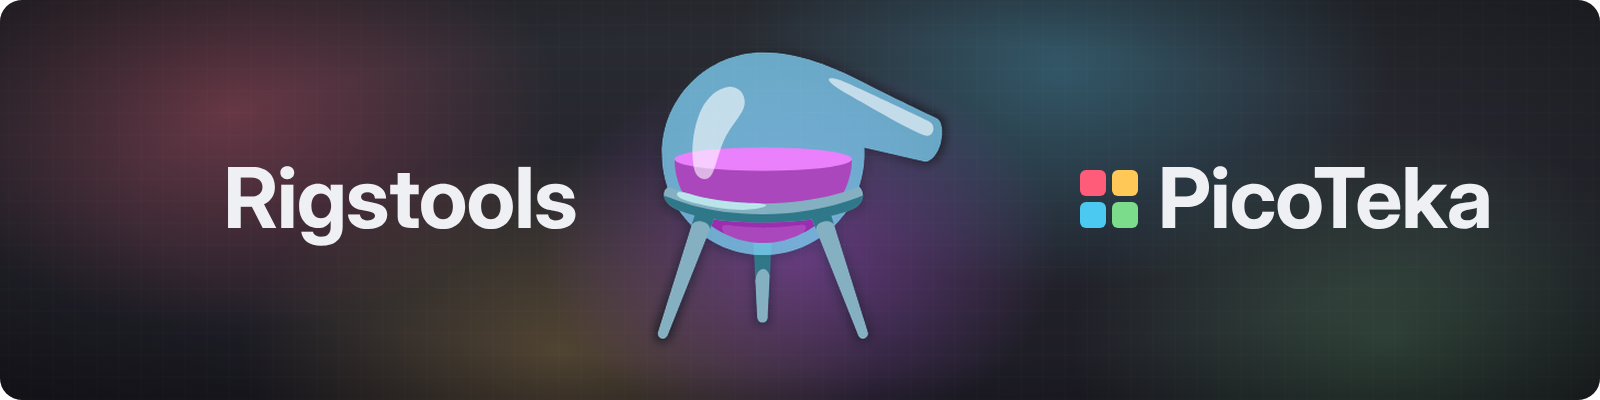
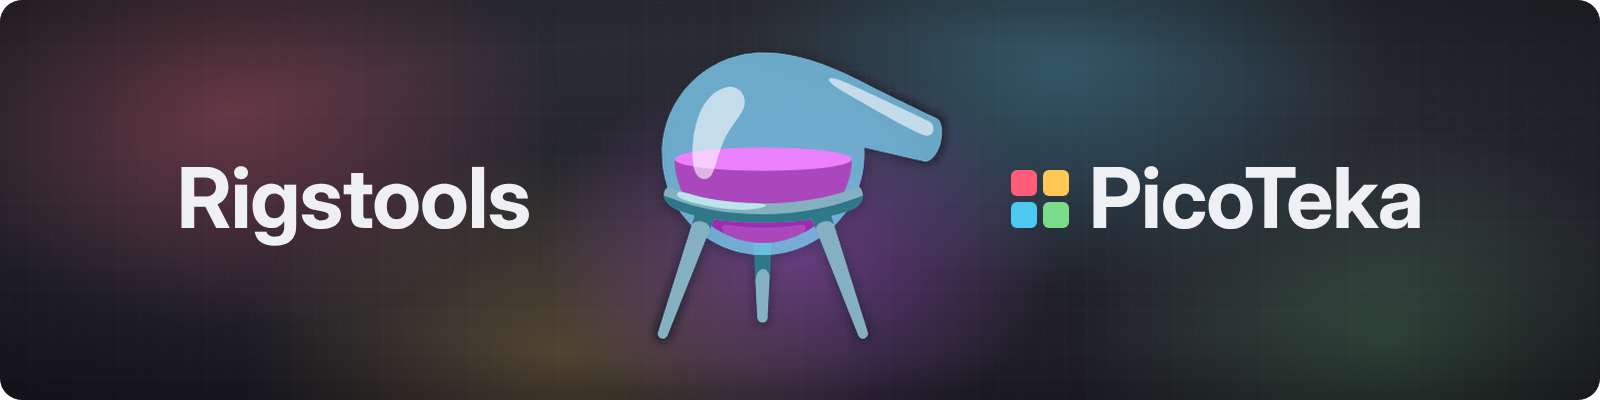
Rigstools 2.0.1: small visual improvements

Changed region(s): [[0.625, 0.42, 0.9375, 0.57], [0.0938, 0.42, 0.375, 0.63]]

diff --git a/gallery_ui/gallery.js b/gallery_ui/gallery.js
@@ -21,7 +21,9 @@ const STR = {
     sentWf: "Sent to ComfyUI", no_comfy: "ComfyUI is not open in any browser tab", no_workflow: "The file has no workflow",
     network_files: "Deleting and moving files from another computer is off (Settings → Rigstools → PicoTeka)",
     no_send2trash: "The send2trash package is missing: pip install send2trash", not_root: "Not a gallery folder",
-    delTitle: "Delete pictures", delText: "Move {n} {pics} to the Windows recycle bin? Tags and rating come back if a file is restored within 30 days.",
+    delPermTitle: "Delete permanently?", delPermText: "You are about to permanently delete {n} {pics}. The files are deleted from the disk, bypassing the recycle bin, and cannot be restored; their tags and rating are deleted too. Are you sure?",
+    delPerm: "Delete permanently", deletedPerm: "Deleted permanently: {n}", cancel: "Cancel",
+    delTitle: "Delete pictures", delText: "Move {n} {pics} to the system recycle bin? Tags and rating come back if a file is restored within 30 days.",
     deleted: "Moved to the recycle bin: {n}", moveTitle: "Move pictures", moveText: "Move {n} {pics} to:", newFolder: "new subfolder (optional)",
     moved: "Moved: {n}", rateTitle: "Rating of {n} {pics}", tagsTitle: "Tags of {n} {pics}", tagsAdd: "Add", tagsRemove: "Remove from the pictures",
     manage: "manage", tagsManage: "Tags", rename: "Rename", renamePh: "new name", tagDelete: "Delete the tag",
@@ -48,7 +50,9 @@ const STR = {
     sentWf: "Отправлено в ComfyUI", no_comfy: "ComfyUI не открыт ни в одной вкладке браузера", no_workflow: "В файле нет workflow",
     network_files: "Удаление и перемещение файлов с другого компьютера выключено (Настройки → Rigstools → PicoTeka)",
     no_send2trash: "Нет пакета send2trash: pip install send2trash", not_root: "Это не папка галереи",
-    delTitle: "Удаление картинок", delText: "Переместить {n} {pics} в корзину Windows? Теги и рейтинг вернутся, если файл восстановить в течение 30 дней.",
+    delPermTitle: "Удалить безвозвратно?", delPermText: "Вы собираетесь безвозвратно удалить {n} {pics}. Файлы будут удалены с диска, минуя корзину, — восстановить их будет нельзя; теги и рейтинг тоже удаляются. Вы уверены?",
+    delPerm: "Удалить безвозвратно", deletedPerm: "Удалено безвозвратно: {n}", cancel: "Отмена",
+    delTitle: "Удаление картинок", delText: "Переместить {n} {pics} в корзину ОС? Теги и рейтинг вернутся, если файл восстановить в течение 30 дней.",
     deleted: "Перемещено в корзину: {n}", moveTitle: "Перемещение картинок", moveText: "Переместить {n} {pics} в:", newFolder: "новая подпапка (необязательно)",
     moved: "Перемещено: {n}", rateTitle: "Рейтинг {n} {pics}", tagsTitle: "Теги {n} {pics}", tagsAdd: "Добавить", tagsRemove: "Убрать с картинок",
     manage: "управлять", tagsManage: "Теги", rename: "Переименовать", renamePh: "новое имя", tagDelete: "Удалить тег",
@@ -774,7 +778,7 @@ function infoHtml(it) {
       <button class="btn pri" data-act="params" ${it.has_params ? "" : "disabled"}>${icl("send", t("toWfParams"))}</button>
       <button class="btn" data-act="workflow" ${it.has_workflow ? "" : "disabled"}>${icl("workflow", t("openWf"))}</button>
       <button class="btn" data-act="copy" ${it.has_params ? "" : "disabled"}>${icl("copy", t("copyParams"))}</button>
-      <button class="btn" data-act="meta">${icl("info", t("fileData"))}</button>
+      <button class="btn meta" data-act="meta">${icl("info", t("fileData"))}</button>
       <button class="btn dang" data-act="delete">${icl("trash", t("del"))}</button></div>`;
 }
 // rating stars as the icon of the Rating button: filled when given, an outline when not (the thumbnails keep font stars)
@@ -803,7 +807,7 @@ function wireInfo(box, it) {
   };
   box.querySelector('[data-act="meta"]').onclick = () => openMeta(it);
   for (const kind of ["image", "params", "workflow"]) box.querySelector(`[data-act="${kind}"]`).onclick = () => sendToComfy(it.id, kind);
-  box.querySelector('[data-act="delete"]').onclick = () => deleteDialog([it.id]);
+  box.querySelector('[data-act="delete"]').onclick = (e) => deleteDialog([it.id], e.shiftKey);
 }
 
 /** After a change to pictures: their cells, the card and the open viewer show it. */
@@ -878,20 +882,27 @@ async function tagInput(line, done) {
   };
 }
 
-function deleteDialog(ids) {
+/** Delete: to the recycle bin (Delete), or permanently, past the bin (Shift + Delete, Shift + click on a Delete
+    button) — then the dialog is red, warns that nothing can be restored and has Cancel in focus, so a stray Enter
+    deletes nothing. */
+function deleteDialog(ids, permanent = false) {
   if (!ids.length) return;
-  const body = el("div", "dlg-b", `<div>${esc(t("delText", { n: num(ids.length), pics: picsWord(ids.length) }))}</div>`);
-  const go = el("button", "btn dang", icl("trash", t("del")));
-  const line = el("div", "addline"); line.style.justifyContent = "flex-end"; line.append(go);
+  const n = { n: num(ids.length), pics: picsWord(ids.length) };
+  const body = el("div", "dlg-b", `<div>${esc(t(permanent ? "delPermText" : "delText", n))}</div>`);
+  const cancel = el("button", "btn", t("cancel"));
+  const go = el("button", "btn dang", icl("trash", t(permanent ? "delPerm" : "del")));
+  const line = el("div", "addline"); line.style.justifyContent = "flex-end"; line.append(cancel, go);
   body.append(line);
-  const close = dialog(t("delTitle"), body);
-  go.focus();
+  const close = dialog(t(permanent ? "delPermTitle" : "delTitle"), body);
+  if (permanent) body.closest(".dlg").querySelector(".dlg-h b").classList.add("dang");
+  cancel.onclick = close;
+  (permanent ? cancel : go).focus();
   go.onclick = async () => {
     close();
     let r;
-    try { r = await post("delete", { ids }); } catch (e) { return fail(e); }
+    try { r = await post("delete", { ids, permanent }); } catch (e) { return fail(e); }
     removeItems(r.done);
-    toast(t("deleted", { n: num(r.done.length) }));
+    toast(t(permanent ? "deletedPerm" : "deleted", { n: num(r.done.length) }));
     if (r.errors.length) toast(t("errors", { v: r.errors.map((x) => x[0]).join(", ") }), true);
   };
 }
@@ -1124,7 +1135,7 @@ function metaBody(m) {
   const pre = el("pre", "raw");
   const parts = [["parameters", m.parameters || null], ["prompt", m.prompt], ["workflow", m.workflow]];
   parts.forEach(([name, v], i) => {
-    const b = el("span", i ? "" : "on", name);
+    const b = el("span", i ? "" : "on", name); b.dataset.w = name;
     b.onclick = () => { for (const x of tabs.children) x.classList.toggle("on", x === b); pre.textContent = pretty(v); };
     tabs.append(b);
   });
@@ -1242,8 +1253,8 @@ function step(d) {
 function initViewer() {
   $("v-close").innerHTML = icl("close", t("close"));
   $("v-title").textContent = t("viewTitle");
-  $("v-fit").textContent = t("fit");
-  $("v-info").innerHTML = icl("info", t("info"));
+  $("v-fit").textContent = $("v-fit").dataset.w = t("fit");
+  $("v-info").innerHTML = icl("info", t("info")); $("v-info").querySelector("span").dataset.w = t("info");
   $("v-keep-l").textContent = t("keepZoom");
   const keep = $("v-keep");
   keep.checked = V.keep;
@@ -1294,7 +1305,7 @@ function openCompare() {
   [C.a, C.b] = ids.map((id) => S.items.find((x) => x.id === id));
   $("compare").hidden = false;
   $("c-title").textContent = t("cmpTitle");
-  $("c-side").textContent = t("side"); $("c-slider").textContent = t("slider");
+  $("c-side").textContent = $("c-side").dataset.w = t("side"); $("c-slider").textContent = $("c-slider").dataset.w = t("slider");
   setHint("c-hint", t("cmpHint")); requestAnimationFrame(() => foldHint($("c-hint")));
   $("c-hide-l").textContent = t("hideSame");
   $("c-hide").checked = C.hide;
@@ -1391,7 +1402,7 @@ function cTable() {
 
 function initCompare() {
   $("c-close").innerHTML = icl("close", t("close"));
-  $("c-fit").textContent = t("fit");
+  $("c-fit").textContent = $("c-fit").dataset.w = t("fit");
   $("c-fit").onclick = () => { if (C.w) cFit(); };
   const cz = $("c-zoomctl");
   cz.innerHTML = zoomHtml();
@@ -1457,7 +1468,7 @@ document.addEventListener("keydown", (e) => {
   }
   const ids0 = V.open ? [S.items[V.i]?.id].filter((x) => x != null) : targets();
   if (/^[0-5]$/.test(e.key) && !e.ctrlKey && !e.metaKey) { if (ids0.length) setRating(ids0, +e.key); e.preventDefault(); return; }
-  if (e.key === "Delete") { deleteDialog(ids0); e.preventDefault(); return; }
+  if (e.key === "Delete") { deleteDialog(ids0, e.shiftKey); e.preventDefault(); return; }
   if (e.code === "KeyT") { tagsDialog(ids0); e.preventDefault(); return; }
   if (e.code === "KeyM" && !V.open) { moveDialog(ids0); e.preventDefault(); return; }
   if (e.code === "KeyC" && !V.open && !e.ctrlKey && !e.metaKey) { openCompare(); e.preventDefault(); return; }
@@ -1661,14 +1672,14 @@ async function init() {
   $("main").addEventListener("click", (e) => { if (!e.target.closest(".cell, .fresh")) unpick(); });
   $("main").addEventListener("scroll", () => { if (S.unseen.size || S.held.size) requestAnimationFrame(onGridScroll); }, { passive: true });
   for (const [id, key, fn] of [["b-rate", "rate", () => rateDialog(targets())], ["b-tags", "tags", () => tagsDialog(targets())],
-    ["b-move", "move", () => moveDialog(targets())], ["b-del", "del", () => deleteDialog(targets())], ["b-compare", "compare", openCompare]]) {
+    ["b-move", "move", () => moveDialog(targets())], ["b-del", "del", (e) => deleteDialog(targets(), e?.shiftKey)], ["b-compare", "compare", openCompare]]) {
     $(id).innerHTML = icl({ rate: "star", tags: "hash", move: "move", del: "trash", compare: "swap" }[key], t(key));
     $(id).onclick = fn;
   }
   $("b-compare").disabled = true;
   $("v-rate").onclick = (e) => { const it = S.items[V.i]; const r = starOf(e); if (it && r) setRating([it.id], r === it.rating ? 0 : r); };
   $("v-tags").innerHTML = icl("hash", t("tags")); $("v-tags").onclick = () => tagsDialog([S.items[V.i]?.id].filter((x) => x != null));
-  $("v-del").innerHTML = ic("trash"); $("v-del").title = t("del"); $("v-del").onclick = () => deleteDialog([S.items[V.i]?.id].filter((x) => x != null));
+  $("v-del").innerHTML = ic("trash"); $("v-del").title = t("del"); $("v-del").onclick = (e) => deleteDialog([S.items[V.i]?.id].filter((x) => x != null), e.shiftKey);
   // with names: an arrow; icons only (narrow window): a picture and sliders, so the two buttons differ
   const alt = (name) => ic(name).replace('class="ic"', 'class="ic alt"');
   $("v-img-wf").innerHTML = icl("send", t("toWfImage")) + alt("image"); $("v-img-wf").onclick = () => sendToComfy(S.items[V.i].id, "image");

diff --git a/gallery_ui/gallery.css b/gallery_ui/gallery.css
@@ -250,6 +250,10 @@ canvas.px { position: absolute; inset: 0; width: 100%; height: 100%; z-index: 0;
   border: 1px solid var(--outline); border-radius: var(--radius); padding: 8px 10px } .root .muted { word-break: break-all }
 .addline { display: flex; gap: 6px } .addline .inp { flex: 1 } .err { color: var(--danger) }
 .seg { display: inline-flex; border: 1px solid var(--outline); border-radius: var(--radius); overflow: hidden; align-self: flex-start }
+/* buttons that turn bold when on (Fit, the mode switches) keep their width: an invisible bold copy of the text holds it */
+.btn[data-w], .seg span[data-w] { flex-direction: column; justify-content: center; align-items: center; gap: 0 }
+.seg span[data-w], .btn > span[data-w] { display: inline-flex; flex-direction: column; align-items: center }
+.btn[data-w]::after, .seg span[data-w]::after, .btn > span[data-w]::after { content: attr(data-w); height: 0; visibility: hidden; overflow: hidden; font-weight: 650 }
 .seg span { padding: 0 14px; line-height: 28px; cursor: pointer } .seg span + span { border-left: 1px solid var(--outline) } .seg .on { background: var(--light); color: var(--bg); font-weight: 600 }
 .raw { margin: 0; background: var(--field); border: 1px solid var(--outline); border-radius: var(--radius); padding: 10px; white-space: pre-wrap;
   word-break: break-word; font: 11.5px/1.45 ui-monospace, Consolas, monospace; max-height: 60vh; overflow: auto }
@@ -281,6 +285,11 @@ canvas.px { position: absolute; inset: 0; width: 100%; height: 100%; z-index: 0;
 .addtag { color: var(--muted); border-style: dashed } .taginp { height: 24px; width: 160px }
 #v-rate { padding: 0 8px; cursor: default } #v-rate .stars { font-size: 14px }
 .acts { grid-template-columns: 1fr 1fr } .btn.dang { color: var(--danger) }
+/* every Delete button: red text, icon and border; the title of the permanent-delete dialog is red too */
+.btn.dang { border-color: var(--danger) } .btn.dang:hover { background: rgba(255, 92, 122, .10) }
+.dlg-h b.dang { color: var(--danger) }
+/* File data on the card: a green (i), the green of the mark */
+.btn.meta .ic { color: var(--c4) }
 .toast { position: fixed; left: 50%; bottom: 40px; transform: translateX(-50%); background: #151922; border: 1px solid var(--accent-line);
   color: #fff; border-radius: 8px; padding: 8px 14px; z-index: 100; max-width: 70vw; box-shadow: 0 8px 30px rgba(0, 0, 0, .5) }
 .toast.bad { background: #22141a; border-color: rgba(255, 92, 122, .55) }

diff --git a/core/gallery.py b/core/gallery.py
@@ -512,9 +512,12 @@ def delete_tag(index, name):
         c.commit()
 
 
-def delete_files(index, ids):
-    """Moves the files to the recycle bin; their tags and rating are kept for TRASH_DAYS. -> (deleted, errors)."""
-    from send2trash import send2trash
+def delete_files(index, ids, permanent=False):
+    """Moves the files to the recycle bin; their tags and rating are kept for TRASH_DAYS. -> (deleted, errors).
+    permanent (Shift + Delete in the gallery): the files are deleted from the disk, past the bin, and their tags and
+    rating go with them."""
+    if not permanent:
+        from send2trash import send2trash
     c = index.db()
     done, errors = [], []
     for i in ids:
@@ -523,13 +526,16 @@ def delete_files(index, ids):
             continue
         try:
             if os.path.exists(r["real_path"]):
-                send2trash(r["real_path"])
+                if permanent:
+                    os.remove(r["real_path"])
+                else:
+                    send2trash(r["real_path"])
         except Exception as e:
             errors.append([r["name"], str(e)])
             continue
         tags = [t[0] for t in c.execute("SELECT name FROM tags JOIN image_tags ON tag_id = id WHERE image_id = ?", (i,))]
         with index.lock:
-            if tags or r["rating"]:
+            if (tags or r["rating"]) and not permanent:
                 c.execute("INSERT OR REPLACE INTO trash VALUES (?, ?, ?, ?)",
                           (r["path"], r["rating"], json.dumps(tags, ensure_ascii=False), time.time()))
             c.execute("DELETE FROM images WHERE id = ?", (i,))

diff --git a/nodes/gallery.py b/nodes/gallery.py
@@ -275,9 +275,9 @@ def register_routes():
     async def delete(request):
         if not _files_allowed(request):
             return web.json_response({"error": "network_files"}, status=403)
-        _, ids = await body_ids(request)
+        body, ids = await body_ids(request)
         try:
-            done, errors = await run(G.delete_files, G.get()[0], ids)
+            done, errors = await run(G.delete_files, G.get()[0], ids, bool(body.get("permanent")))
         except ImportError:
             return web.json_response({"error": "no_send2trash"}, status=500)
         return web.json_response({"done": done, "errors": errors})

diff --git a/__init__.py b/__init__.py
@@ -2,7 +2,7 @@
 @author: scrudgmcdack
 @title: Rigstools
 @nickname: rigstools
-@version: 2.0.0
+@version: 2.0.1
 @project: https://github.com/ScrudgMcDack/ComfyUI-Rigstools
 @description: Load images with their generation data (PNG, JPEG, WebP) and read it back: workflow, prompt and A1111-style parameters
               (seed, steps, CFG, size, prompts, model, LoRA stack); save images with the parameters collected from the graph;

diff --git a/core/version.py b/core/version.py
@@ -1,1 +1,1 @@
-version = "2.0.0"
+version = "2.0.1"

diff --git a/CHANGELOG.ru.md b/CHANGELOG.ru.md
@@ -4,6 +4,21 @@
 
 Заметные изменения Rigstools. Версии нумеруются по [семантическому версионированию](https://semver.org/lang/ru/).
 
+## [2.0.1] — 2026-11-21
+### Добавлено
+- PicoTeka: **Shift + Delete** (или Shift + щелчок по кнопке «Удалить») удаляет картинки безвозвратно, минуя корзину, —
+  после предупреждения; в нём по умолчанию выбрана «Отмена», так что случайный Enter ничего не удалит.
+
+### Изменено
+- PicoTeka: в окне удаления появилась кнопка **Отмена**, а вместо «корзины Windows» теперь «корзина ОС»; у всех кнопок
+  «Удалить» красная рамка; у «Данных файла» зелёный значок (i).
+
+### Исправлено
+- Баннер README: надписи стоят симметрично относительно реторты; у реестра Comfy и ComfyUI-Manager теперь свой
+  баннер (21:9).
+- PicoTeka: «Вписать», «Параметры», «Рядом / Шторка» и вкладки «Данных файла» больше не становятся шире, когда
+  включены, и соседние кнопки не сдвигаются.
+
 ## [2.0.0] — 2026-11-21
 ### Добавлено
 - **PicoTeka** — быстрая и простая галерея для сгенерированных картинок, открывается кнопкой на верхней панели
@@ -65,6 +80,7 @@
   образец, ручные поправки, гистограмма.
 - Отметки и подсказки на выходах; интерфейс на русском и английском; настройка Debug для лога в консоли.
 
+[2.0.1]: https://github.com/ScrudgMcDack/ComfyUI-Rigstools/releases/tag/v2.0.1
 [2.0.0]: https://github.com/ScrudgMcDack/ComfyUI-Rigstools/releases/tag/v2.0.0
 [1.1.0]: https://github.com/ScrudgMcDack/ComfyUI-Rigstools/releases/tag/v1.1.0
 [1.0.0]: https://github.com/ScrudgMcDack/ComfyUI-Rigstools/releases/tag/v1.0.0

diff --git a/README.md b/README.md
@@ -81,7 +81,8 @@ through the pictures. The mouse and key hints are behind the **?** sign on the b
 - Tags get their colours automatically; rename, merge or delete them in **Tags → manage**. Rating is 0–5 stars. Both
   work for several selected pictures at once.
 - Delete sends files to the recycle bin of the system (with the `send2trash` package, installed with the node); tags
-  and rating are kept for 30 days, so a file restored from the bin comes back with them. Move puts files into another gallery folder or a new subfolder.
+  and rating are kept for 30 days, so a file restored from the bin comes back with them. Shift + Delete (or Shift +
+  click on a Delete button) deletes the files permanently, past the bin, after a warning. Move puts files into another gallery folder or a new subfolder.
 - A file moved or renamed outside the gallery is treated as a new picture.
 
 ### Comparison
@@ -108,7 +109,7 @@ on the canvas); when it has none, the gallery offers to add one.
 | Where | Keys |
 |---|---|
 | Grid | arrows, `Home`, `End` — move · `Enter` — viewer · `Esc` — unpick |
-| Selected pictures | `0`–`5` — rating · `T` — tags · `M` — move · `Delete` — delete · `C` — compare |
+| Selected pictures | `0`–`5` — rating · `T` — tags · `M` — move · `Delete` — delete to the recycle bin · `Shift` + `Delete` — delete permanently (asks first) · `C` — compare |
 | Viewer | ← → — page · `I` — parameters panel · `+` / `−` — zoom · `Ctrl` + `0` — fit · `Esc` — close |
 | Comparison | `+` / `−` — zoom · `Ctrl` + `0` — fit · `Esc` — close |
 

diff --git a/CHANGELOG.md b/CHANGELOG.md
@@ -4,6 +4,21 @@
 
 All notable changes to Rigstools. Versions follow [Semantic Versioning](https://semver.org/).
 
+## [2.0.1] — 2026-11-21
+### Added
+- PicoTeka: **Shift + Delete** (or Shift + click on a Delete button) deletes pictures permanently, past the recycle
+  bin, after a warning; Cancel is in focus there, so a stray Enter deletes nothing.
+
+### Changed
+- PicoTeka: the delete dialog has a **Cancel** button and speaks of the system recycle bin (not only Windows); every
+  Delete button has a red border; File data has a green (i).
+
+### Fixed
+- README banner: the names stand symmetric to the alembic; the Comfy Registry and ComfyUI-Manager get a banner
+  of their own (21:9).
+- PicoTeka: Fit, Parameters, Side by side / Slider and the tabs of File data no longer grow wider when turned on, so
+  the buttons next to them do not shift.
+
 ## [2.0.0] — 2026-11-21
 ### Added
 - **PicoTeka** — a fast and simple gallery for the pictures you generate, opened by a button on the ComfyUI top bar
@@ -65,6 +80,7 @@ First public version.
   matching to a reference, manual adjustments, a histogram.
 - Output marks and output tooltips; English and Russian UI; a Debug setting for the console log.
 
+[2.0.1]: https://github.com/ScrudgMcDack/ComfyUI-Rigstools/releases/tag/v2.0.1
 [2.0.0]: https://github.com/ScrudgMcDack/ComfyUI-Rigstools/releases/tag/v2.0.0
 [1.1.0]: https://github.com/ScrudgMcDack/ComfyUI-Rigstools/releases/tag/v1.1.0
 [1.0.0]: https://github.com/ScrudgMcDack/ComfyUI-Rigstools/releases/tag/v1.0.0

diff --git a/THIRD_PARTY_NOTICES.md b/THIRD_PARTY_NOTICES.md
@@ -5,13 +5,13 @@ Rigstools started as a trimmed fork of ComfyUI-Crystools (https://github.com/cry
 MIT License, Copyright (c) 2023 Crystian. The notice is kept in [LICENSE](LICENSE).
 
 ## Noto Emoji
-The node title icon (`web/alembic.svg`), the extension icon (`icon.png`) and the README banner (`docs/banner.png`) use the “alembic” emoji (U+2697)
+The node title icon (`web/alembic.svg`), the extension icon (`icon.png`), the README banner (`docs/banner.png`) and the registry banner (`docs/banner_registry.png`) use the “alembic” emoji (U+2697)
 from Noto Emoji (https://github.com/googlefonts/noto-emoji), Copyright 2013 Google LLC.
 The SVG image resources of Noto Emoji are licensed under the Apache License, Version 2.0;
 the notice and the full license text are in [licenses/APACHE-2.0-NOTO-EMOJI.txt](licenses/APACHE-2.0-NOTO-EMOJI.txt).
 `web/alembic.svg` is the unmodified file `2D/svg/emoji_u2697.svg`; `icon.png` places it on a background made for Rigstools,
-and the README banner (`docs/banner.png`) takes the alembic from `icon.png` and places it on a wider background with the
-names Rigstools and PicoTeka.
+and the banners (`docs/banner.png`, `docs/banner_registry.png`) take the alembic from `icon.png` and place it on a wider
+background with the names Rigstools and PicoTeka.
 
 ## Lucide
 The Settings sidebar icon of Rigstools is the path data of the `flask-conical` icon from **Lucide**
